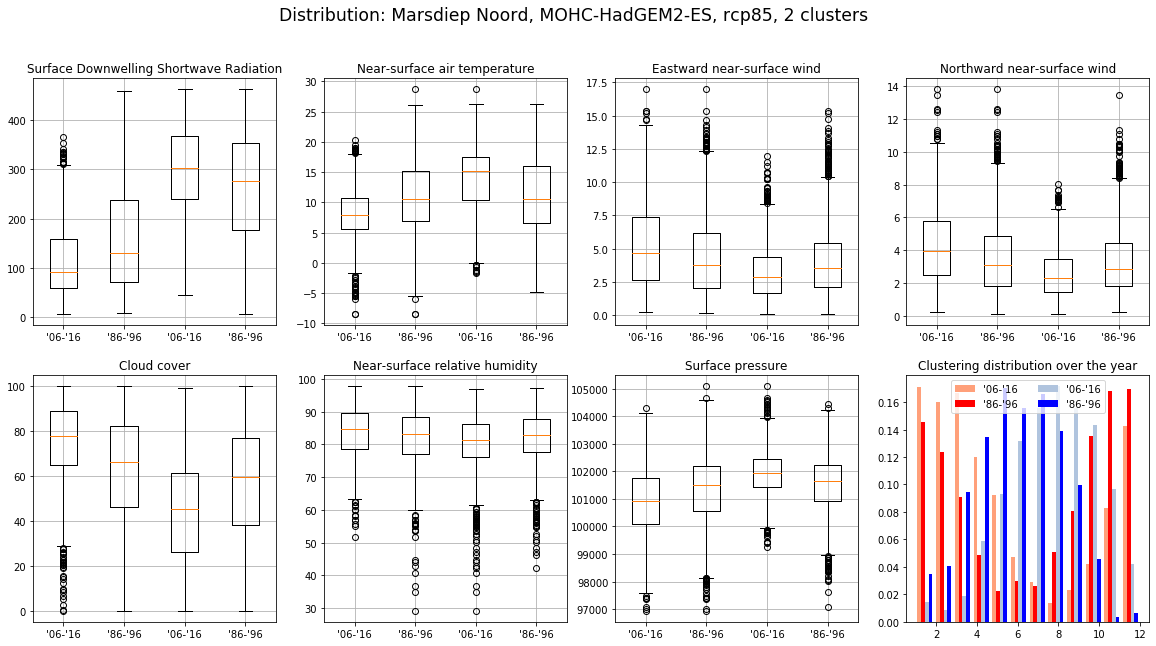
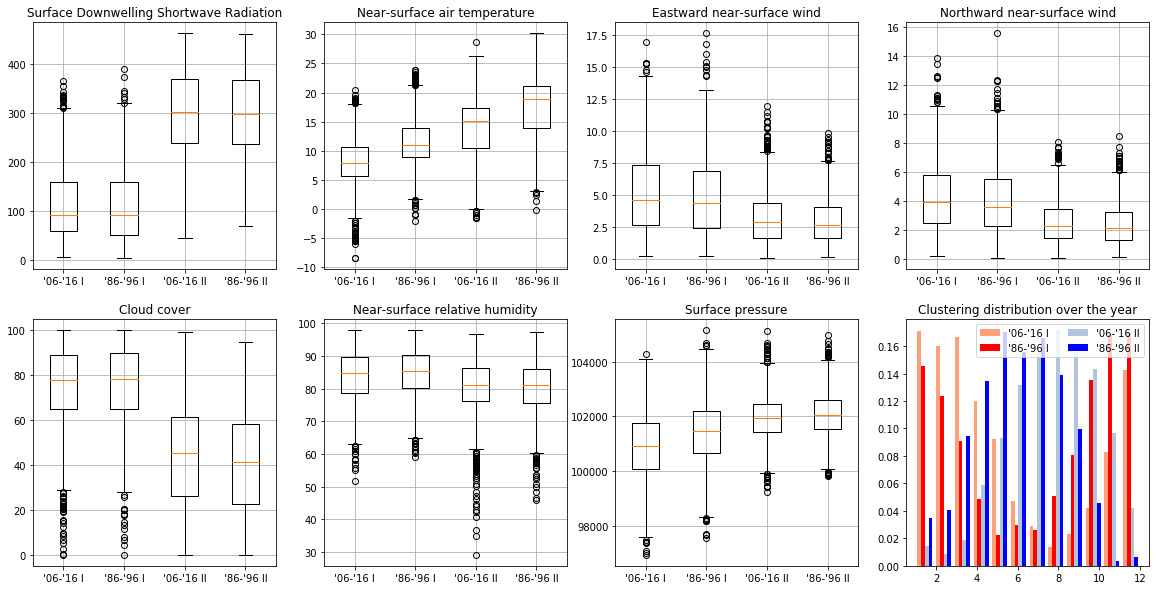
clustering first and last 10 separately

diff --git a/Maaike/Clustering_explvar_10y.py b/Maaike/Clustering_explvar_10y.py
@@ -179,6 +179,9 @@ Data = np.load('../Datares/tensor_daily_mean_5D.npy')
 NanINDX = np.argwhere(np.isnan(Data))
 for i in range(len(NanINDX)):
     Data[NanINDX[i][0],NanINDX[i][1],NanINDX[i][2],NanINDX[i][3],NanINDX[i][4]] = 200
+Data = Data[:,:,st,mdl,exp]
+Data1 = Data[0:3650,:]
+Data2 = Data[-3650:,:]
     
 #plotting the clusters of both timeslots over a year   
 fig, axes = plt.subplots(nrows=1, ncols=2)
@@ -194,8 +197,10 @@ ax1.set_title('Divide in months')
 #Create all the boxplots for the different variables and clusters
 fig = plt.figure(2, figsize = (20,10))
 #Suptitle = 'Distribution: '+ STATIONS[st]+', '+MODELS[mdl]+', '+EXPERIMENTS[exp]+', '+str(n_clusters)+' clusters'
-fig.suptitle(Suptitle,size = 'xx-large')
-xlabel = ["'06-'16","'86-'96"]*n_clusters
+#fig.suptitle(Suptitle,size = 'xx-large')
+xlabel_long = ["'06-'16 I","'86-'96 I","'06-'16 II","'86-'96 II",
+               "'06-'16 III","'86-'96 III","'06-'16 IV","'86-'96 IV",]
+xlabel = xlabel_long[:n_clusters*2]
 for var in range(7):
     ax = fig.add_subplot(2, 4, var+1)
     ax.set_title(VARIABLES[var])
@@ -207,8 +212,8 @@ for var in range(7):
         cl2 = order_lst2[cl]
         INDX1 = np.where(cluster_labels_array1 == cl1)
         INDX2 = np.where(cluster_labels_array2 == cl2)
-        new1 = Data[INDX1,var,st, mdl, exp]
-        new2 = Data[INDX2,var,st, mdl, exp]
+        new1 = Data1[INDX1,var]
+        new2 = Data2[INDX2,var]
         M.append(new1[0])
 #        xlabel.append(str(cl+1)+'a')
         M.append(new2[0])
@@ -221,7 +226,7 @@ for var in range(7):
 ax = fig.add_subplot(2,4,8)  
 #leg = ['Cluster 1a','Cluster 1b','Cluster 2a','Cluster 2b']
 #       'Cluster 3a','Cluster 3b','Cluster 3a','Cluster 3b',] 
-leg = ["'06-'16","'86-'96"]*n_clusters
+leg = xlabel
 ax.hist(Month_Counter ,12, label=leg, density=True, histtype='bar', color=color[0:n_clusters*2])
 ax.legend(prop={'size': 10},ncol=2)
 ax.set_title('Clustering distribution over the year')
